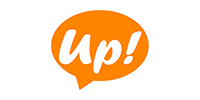
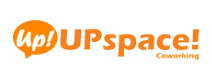
Alteração e correção
Alteração na marca da UPSpace nos parceiros, adição da marca e do link
para o Webfaction nos parceiros. Correção do fallback para png no logo
da Shift (IE<9 e Android<2.3)

diff --git a/PyProject_ShiftIT/flatpages/templates/time/time.html b/PyProject_ShiftIT/flatpages/templates/time/time.html
@@ -50,19 +50,22 @@
 						<h2>Parceiros</h2>
 						<div class="row">
 							<div class="grid-img">
-								<a href="http://www.catarinasdesign.com.br" target="_blank"><img src="{{MEDIA_URL}}img/icones/parceiros-catarinas.png"></a>
+								<a href="http://www.catarinasdesign.com.br" target="_blank"><img alt="Catarinas Design de Interação" src="{{MEDIA_URL}}img/icones/parceiros-catarinas.png"></a>
 							</div>
 				            <div class="grid-img">
-				            	<a href="http://www.dataspace.com.br" target="_blank"><img src="{{MEDIA_URL}}img/icones/parceiros-dataspace.png"></a>
+				            	<a href="http://www.dataspace.com.br" target="_blank"><img alt="Dataspace Hospedagem de Sites e manutenção de servidores" src="{{MEDIA_URL}}img/icones/parceiros-dataspace.png"></a>
 				            </div>
 				            <div class="grid-img">
-				            	<a href="https://www.facebook.com/FuseeIdeas" target="_blank"><img src="{{MEDIA_URL}}img/icones/parceiros-fusee.png"></a>
+				            	<a href="https://www.facebook.com/FuseeIdeas" target="_blank"><img alt="Fusee - Marketing Digital" src="{{MEDIA_URL}}img/icones/parceiros-fusee.png"></a>
 				            </div>
 				            <div class="grid-img">
-				            	<a href="http://www.upspace.com.br" target="_blank"><img src="{{MEDIA_URL}}img/icones/parceiros-upspace.png"></a>
+				            	<a href="http://www.upspace.com.br" target="_blank"><img alt="UPSpace! Espaço de coworking" src="{{MEDIA_URL}}img/icones/parceiros-upspace.png"></a>
 				            </div>
 				            <div class="grid-img">
-				            	<a href="http://www.viconsultoria.com.br" target="_blank"><img src="{{MEDIA_URL}}img/icones/parceiros-valorinovacao.png"></a>
+				            	<a href="http://www.viconsultoria.com.br" target="_blank"><img alt="Valor da Inovação Consultoria" src="{{MEDIA_URL}}img/icones/parceiros-valorinovacao.png"></a>
+				            </div>
+				            <div class="grid-img">
+				            	<a href="http://www.webfaction.com" target="_blank"><img alt="Webfaction - Hosting for developers - Servidor de aplicação" src="{{MEDIA_URL}}img/icones/parceiros-webfaction.png"></a>
 				            </div>
 						</div>
 					</div>

diff --git a/PyProject_ShiftIT/templates/404.html b/PyProject_ShiftIT/templates/404.html
@@ -3,48 +3,35 @@
 
 	<head>
 		<meta charset="utf-8">
-
-		<!-- Força o navegador a abrir em sua última versão (IE) ou utilizando o Chrome Frame caso disponível -->
-		<meta http-equiv="X-UA-Compatible" content="IE=edge,chrome=1">
-
-		<!-- Título da página e descrição -->
 		<title>Opa!</title>
 		<meta name="description" content="Ooops! Isto parece ser um erro.">
-
-		<!-- Mobile Screen Resizing -->
+		<meta http-equiv="X-UA-Compatible" content="IE=edge,chrome=1">
 		<meta name="viewport" content="width=device-width, initial-scale=1.0">
-
-		<!-- Folhas de estilo -->
 		<link rel="stylesheet" href="{{MEDIA_URL}}css/shiftit.css" type="text/css">
-
-		<!- Chamada para o Slider ->
-		<script>
-		if ( 'querySelector' in document && 'addEventListener' in window ) {
-			document.documentElement.className += 'js';
+		<style>
+		body.error {
+			background-image: url({{ MEDIA_URL }}img/ilustracoes/bernunca404.svg);
+			background-position: right top;
+			background-repeat: no-repeat;
 		}
-		</script>
+		</style>
 		<!-- HTML5 Shim para IE 6-8 -->
 		<!--[if lt IE 9]>
 			<script src="http://html5shiv.googlecode.com/svn/trunk/html5.js"></script>
 		<![endif]-->
-
 	</head>
-
-	<body>
-
-
+	<body class="error">
 		<div class="bg bg-404">
 			<section class="container">
 				<div class="row">
 					<div class="grid-two-thirds">
 						<h2 class="text-big"><strong>Ooops!</strong><br>
-							Isso parece ser um erro.</h2>
-						<p>Aguarde um minutinho e tente novamente. Caso o erro persista entre em contato com o administrador do sistema através do email: <a href="#">admin@sistema.com</a>.</p>
+							Esta página não existe.</h2>
+						<p>Volte para a <a href="http://www.shiftit.com.br">nossa página inicial</a>. Caso você acredite que deveria existir alguma coisa aqui entre em contato com a gente através do email: <a href="#">contato@shiftit.com.br</a>.</p>
+						<p class="text-small"><strong>Erro 404</strong> • A página que você está procurando não existe.</p>
 					</div>
 				</div>
 			</section>
 		</div>
-
-
 	</body>
 </html>

diff --git a/PyProject_ShiftIT/templates/base.html b/PyProject_ShiftIT/templates/base.html
@@ -19,11 +19,9 @@
     </head>
 
     <body>
-    <!-- ClickTale Top part -->
     <script type="text/javascript">
     var WRInitTime=(new Date()).getTime();
     </script>
-    <!-- ClickTale end of Top part -->
 
         <!--[if lt IE 8]>
             <section class="container">
@@ -36,7 +34,7 @@
                 <div class="row">
                     <div class="grid-6">
                         <nav class="nav-wrap">
-                        <a class="logo" href="/"><img class="" alt="Shift it - Logo da empresa" src="{{MEDIA_URL}}img/branding/shiftitlogo.svg" onerror="this.src={{MEDIA_URL}}img/branding/shiftitlogo.svg"></a>
+                        <a class="logo" href="/"><img class="" alt="Shift it - Logo da empresa" src="{{MEDIA_URL}}img/branding/shiftitlogo.svg" onerror="this.src={{MEDIA_URL}}img/branding/shiftitlogo.png"></a>
                             <ul class="nav">
                                 <li><a href="/o_que_fazemos/"><span>Nosso trabalho</span><br><span class="text-small nav-legenda">Projetos realizados</span></a></li>
                                 <li><a href="/como_fazemos/"><span>Como fazemos</span><br><span class="text-small nav-legenda">Tecnologias e processos</span></a></li>
@@ -68,15 +66,8 @@
             </footer>
         </div>
 
-        <!-- Javascript -->
         <!-- ClickTale Bottom part -->
         <script type='text/javascript'>
-        // The ClickTale Balkan Tracking Code may be programmatically customized using hooks:
-        // 
-        //   function ClickTalePreRecordingHook() { /* place your customized code here */  }
-        //
-        // For details about ClickTale hooks, please consult the wiki page http://wiki.clicktale.com/Article/Customizing_code_version_2
-
         document.write(unescape("%3Cscript%20src='"+
         (document.location.protocol=='https:'?
         "https://clicktalecdn.sslcs.cdngc.net/www07/ptc/7f5ca614-5c58-4c66-bd6a-1813ecf51c83.js":
